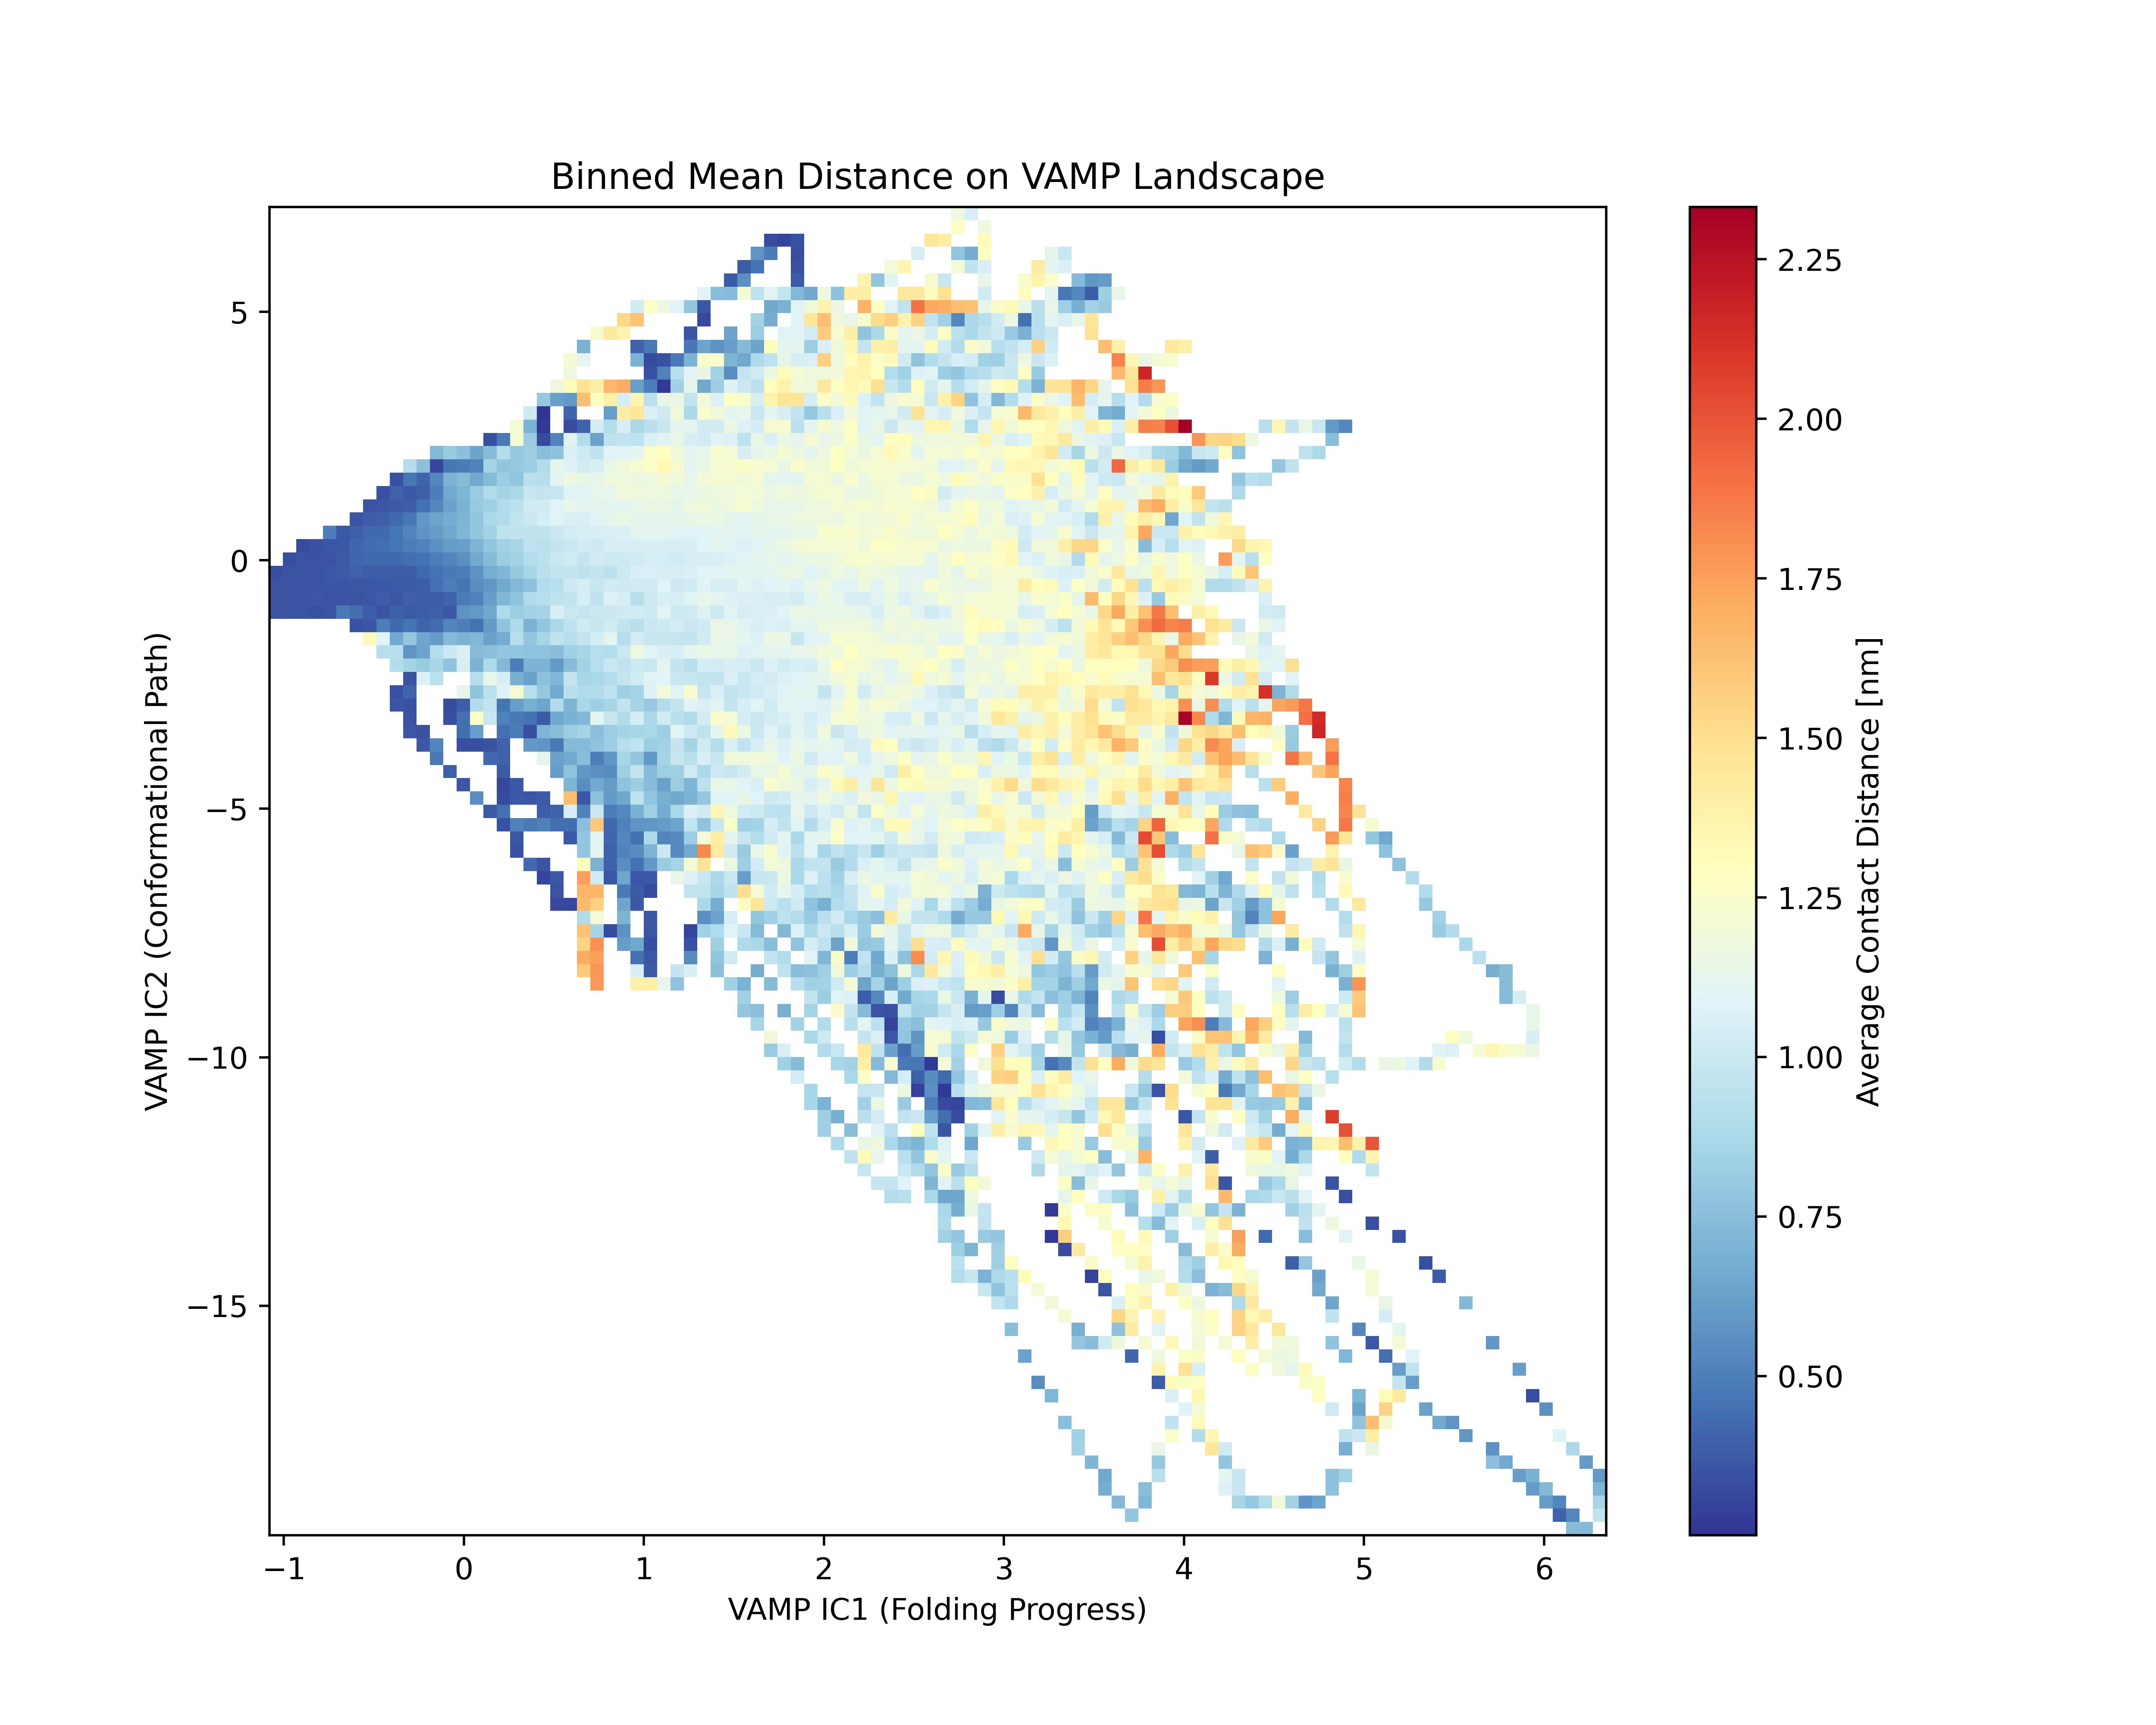
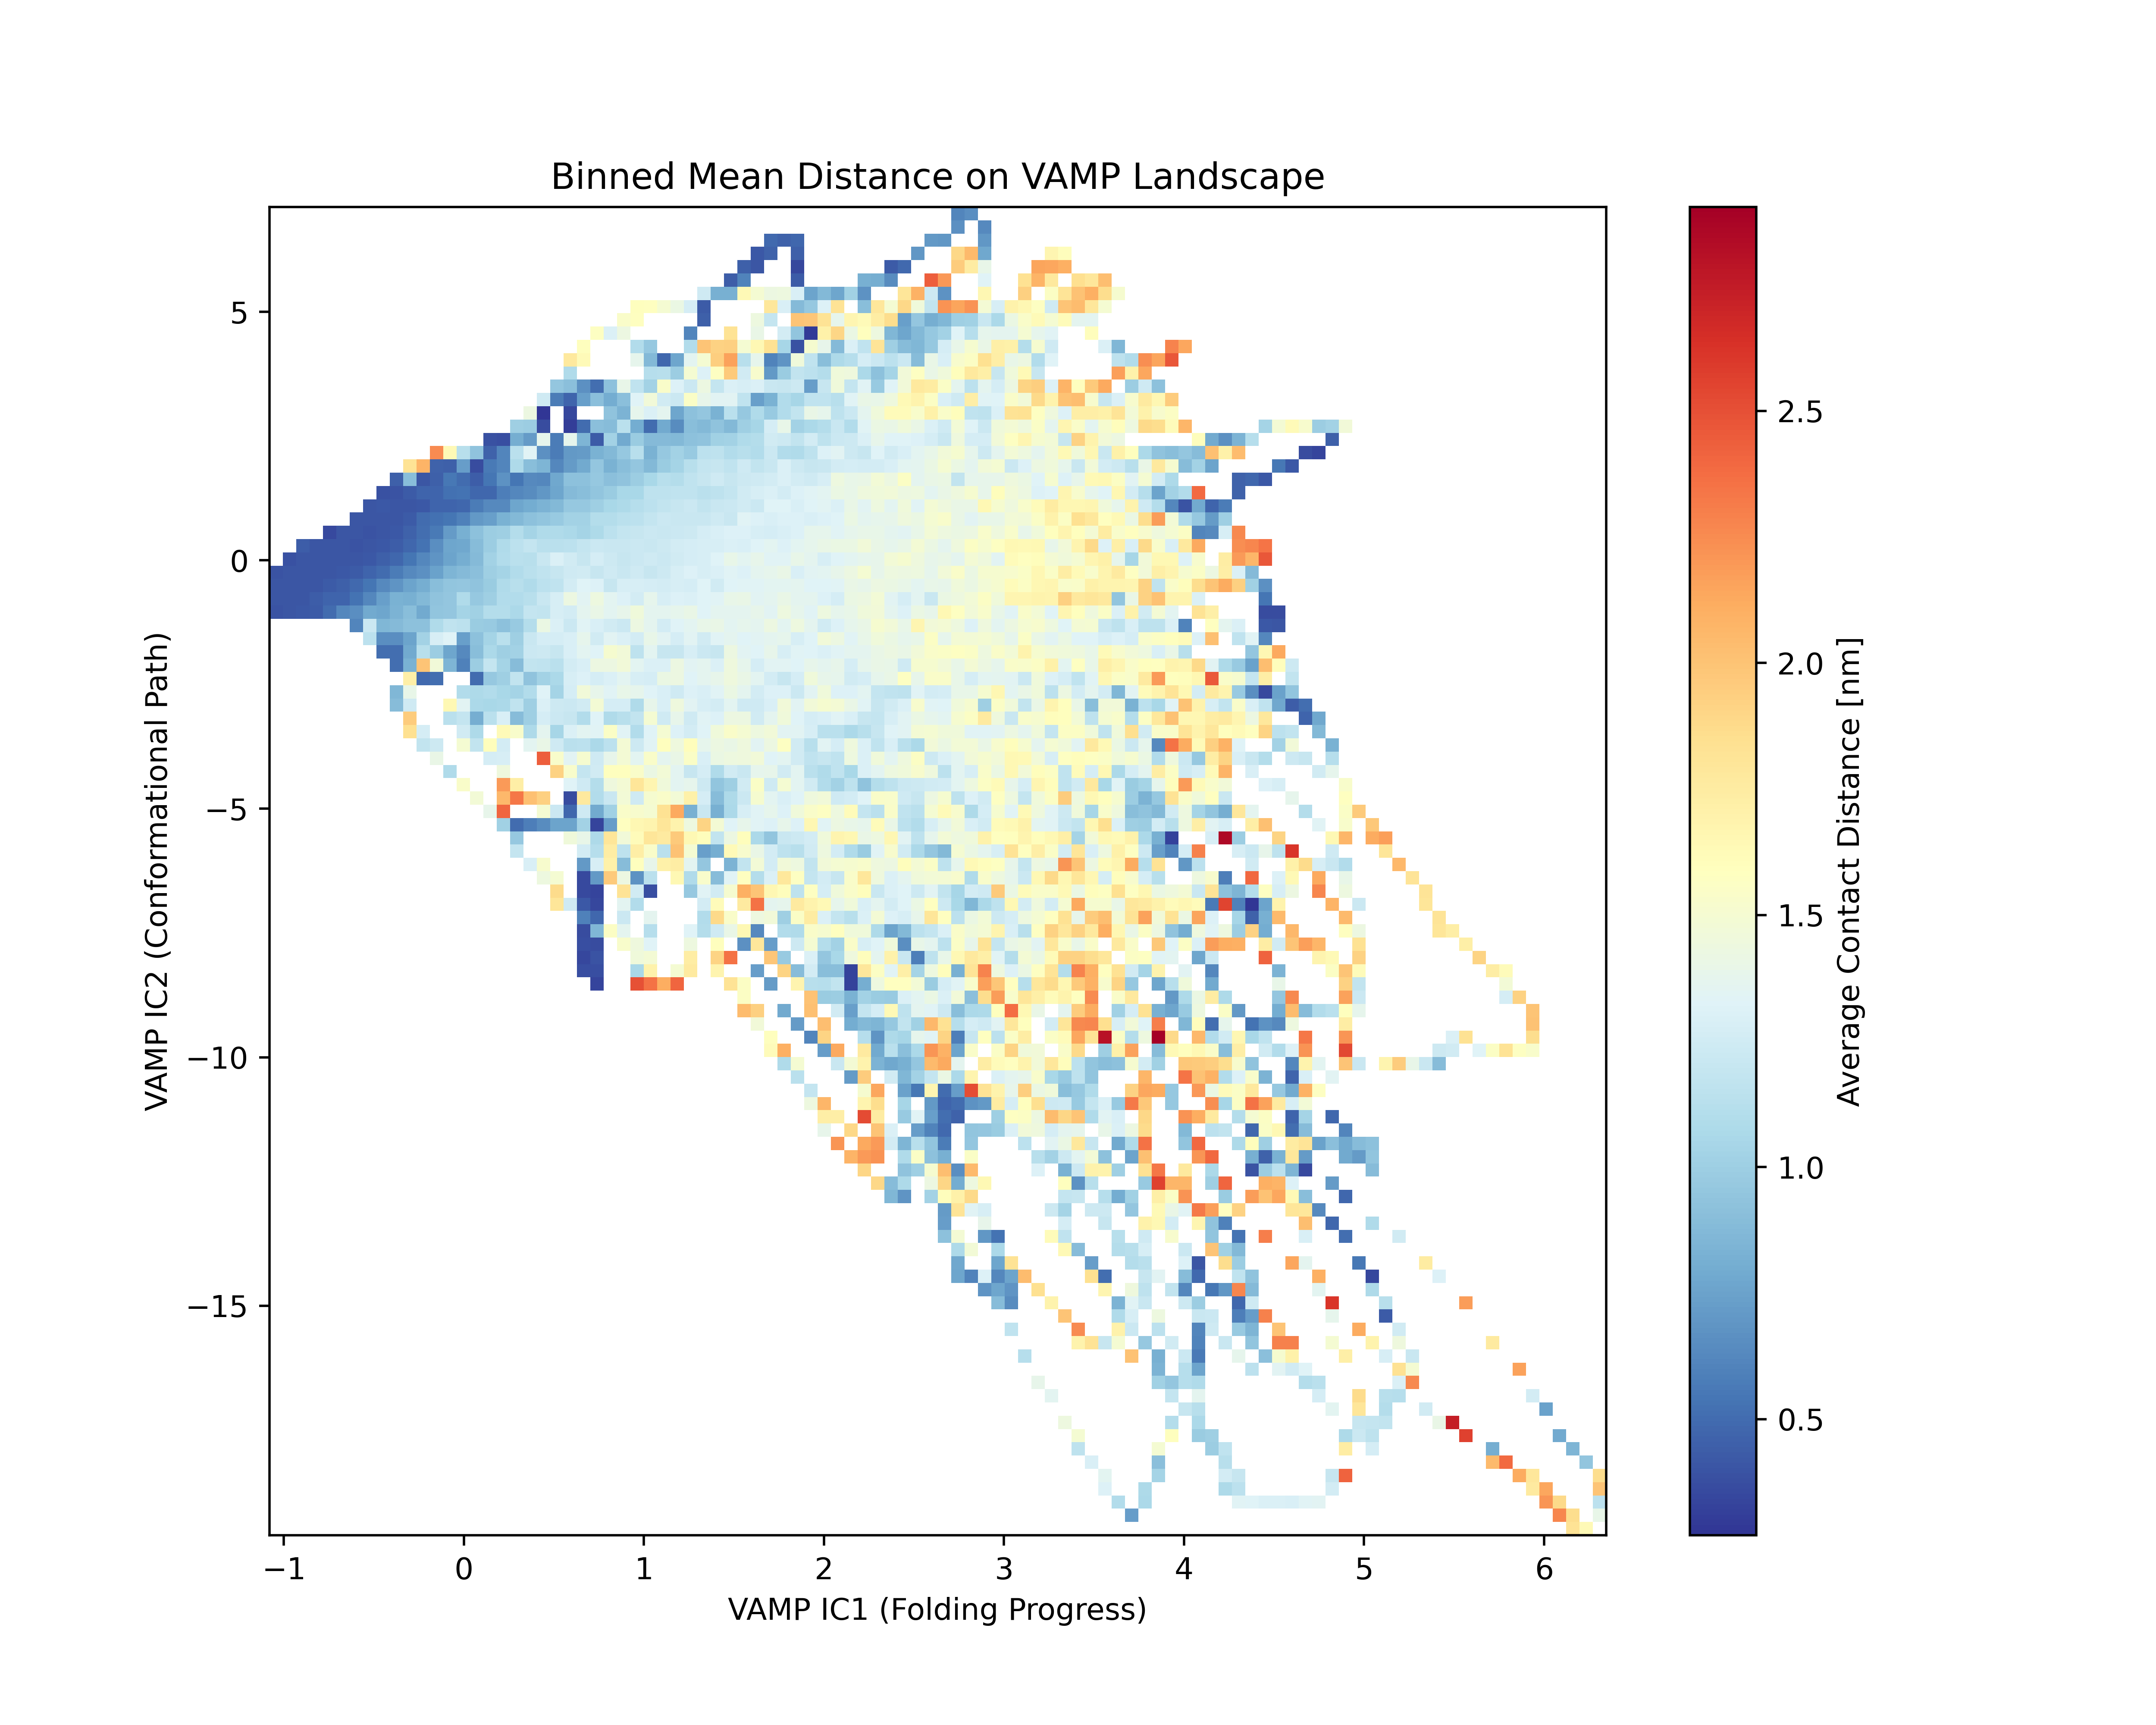
organization of py and png

diff --git a/distComp/allResAvgBarR.py b/distComp/allResAvgBarR.py
@@ -1,0 +1,23 @@
+import numpy as np
+import matplotlib.pyplot as plt
+
+r_matrix = np.load("../r_features_sliding.npy") # [frames, residues]
+coords = np.load("../vamp_projection.npy")     # [frames, ICs]
+
+fig, axes = plt.subplots(5, 7, figsize=(20, 15), sharex=True, sharey=True)
+axes = axes.flatten()
+
+for i in range(35):
+    ax = axes[i]
+    # Color the VAMP plot by the R-value of the specific residue
+#    sc = ax.scatter(coords[:, 0], coords[:, 1], c=r_matrix[:, i], 
+#                    cmap='plasma', s=1, alpha=0.3)
+    ax.hexbin(coords[:, 0], coords[:, 1], C=r_matrix[:, i], 
+         gridsize=30, cmap='plasma', reduce_C_function=np.mean)
+    ax.set_title(f"Residue {i+1}")
+#    if i == 34: # Add a colorbar to the last one
+#        plt.colorbar(sc, ax=ax, label='Coherence (R)')
+
+plt.tight_layout()
+plt.savefig("hp35_stability_grid.png")
+#plt.show()

diff --git a/distComp/projDists2.py b/distComp/projDists2.py
@@ -6,7 +6,7 @@ from scipy.stats import binned_statistic_2d
 coords = np.load("../vamp_projection.npy")
 # Let's use the first distance column as a test (e.g., a core contact)
 distances = np.loadtxt("hp35.mindists")
-target_dist = distances[:, 3] 
+target_dist = distances[:, 22] 
 
 # 2. Create the Binned Map
 # This calculates the MEAN distance in every x,y bin of VAMP space